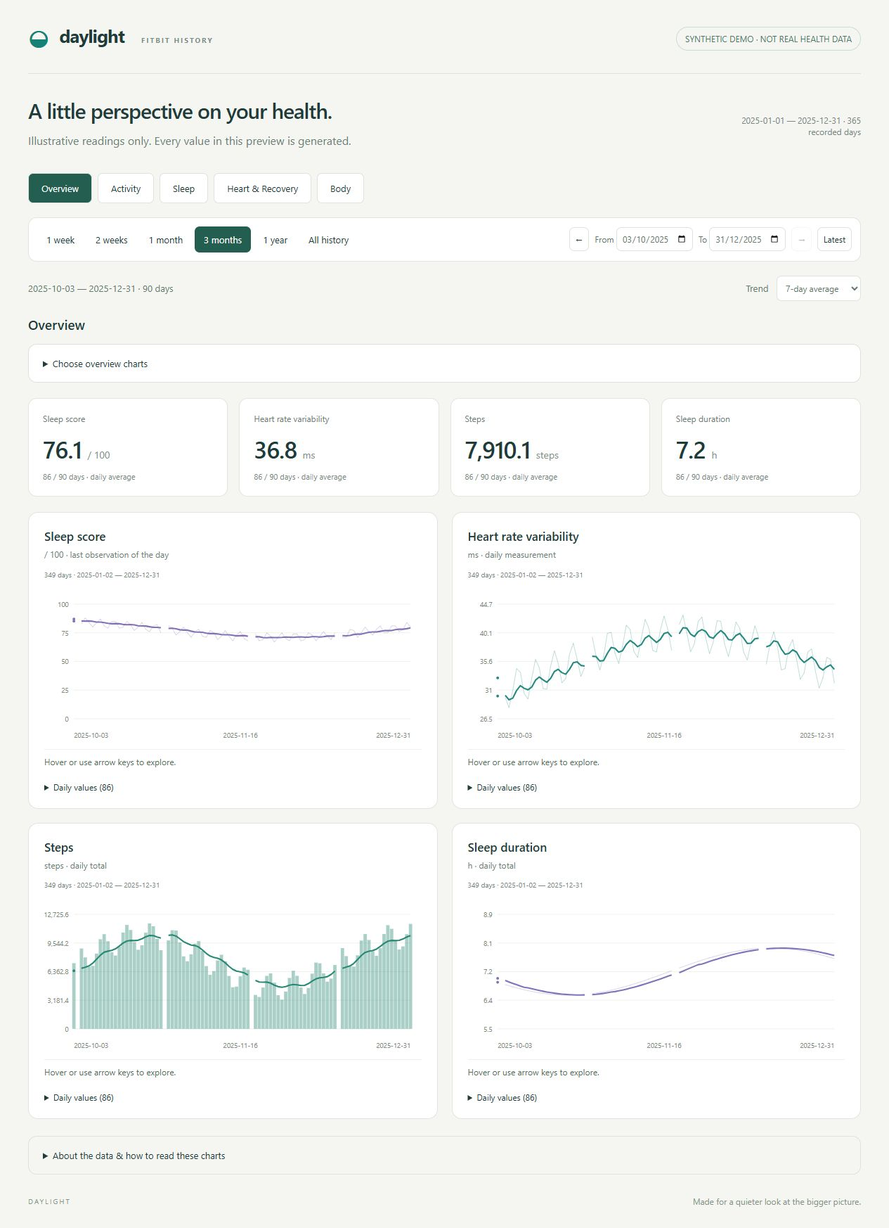
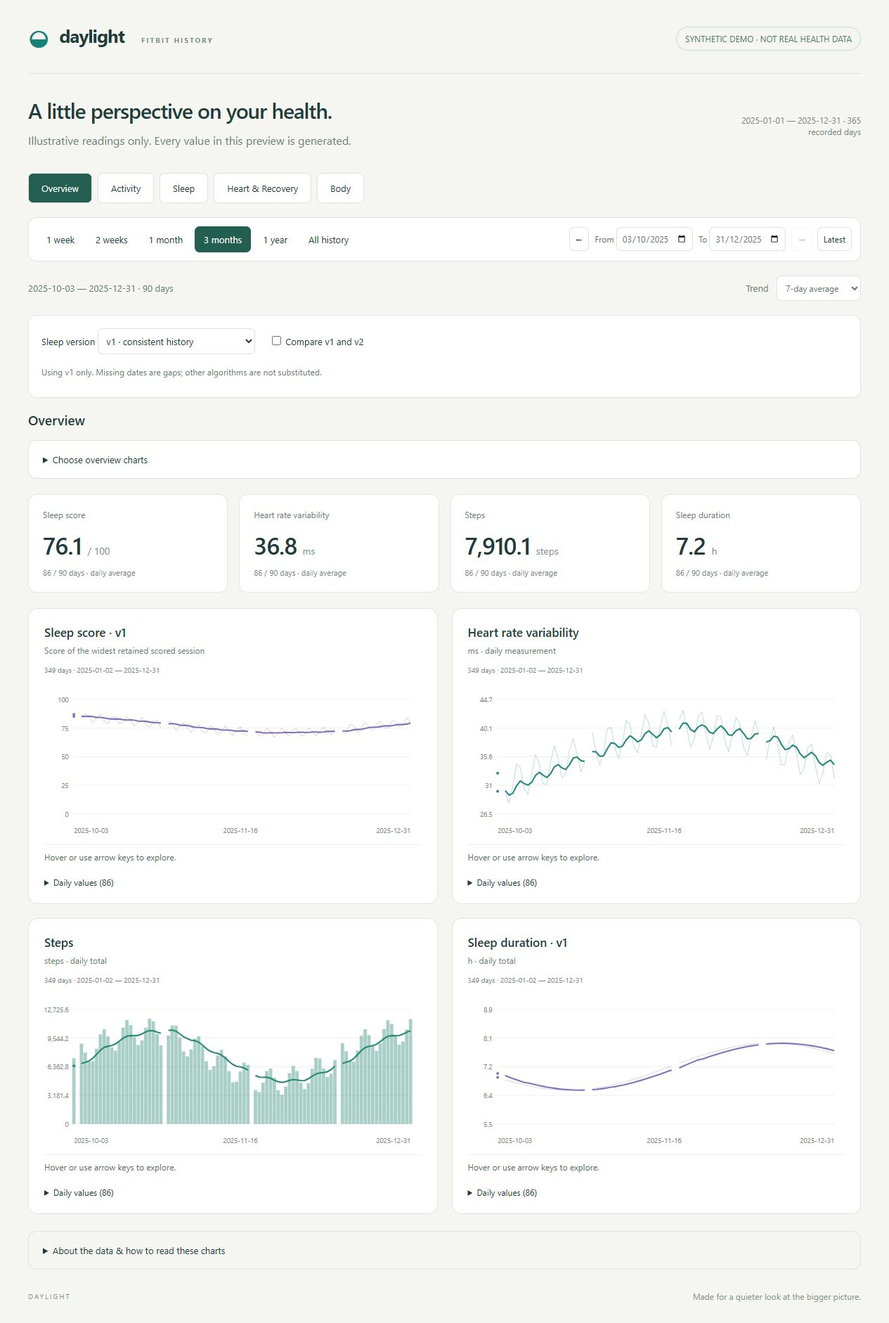
Fix duplicate sleep totals and add algorithm version controls
Keep v1, v2, and hybrid sleep estimates separate, with consistent scores and stages, saved selection, and a comparison view. Flag overlapping workouts without removing records and preserve legacy sleep score links.

Validate with 17 passing tests, including real-export reconciliation, plus JavaScript syntax and whitespace checks. Update documentation and the synthetic preview; exclude all private export data.

diff --git a/dashboard/app.js b/dashboard/app.js
@@ -1,14 +1,15 @@
+import {applySleepVariant,compareSleepVersions,sleepKeys} from './sleep-data.js';
 import {metrics,metricByKey,categories,defaultSelection} from './metrics.js';
 import {normalizeDataset,rowsBetween,trailingMean,DAY,iso,time} from './model.js';
 const $=s=>document.querySelector(s);
 const fmt=v=>v==null?'—':Number(v).toLocaleString(undefined,{maximumFractionDigits:1});
-let data,byDate,start,end,first,last,preset=90,activeTab='Overview',exerciseType='All',selected=new Set(defaultSelection);
+let baseData,sleepVersion='v1',data,byDate,start,end,first,last,preset=90,activeTab='Overview',exerciseType='All',selected=new Set(defaultSelection);
 try{const saved=JSON.parse(localStorage.getItem('daylight.charts.v2'));if(Array.isArray(saved))selected=new Set(saved.filter(k=>metricByKey[k]));}catch{}
 const element=(tag,text,className)=>{const e=document.createElement(tag);if(text!==undefined)e.textContent=text;if(className)e.className=className;return e;};
 function range(n){preset=n;end=last;start=n===0?first:Math.max(first,end-(n-1)*DAY);render();}
 function statusFor(key){const m=data.metrics[key];return m?.days?`${m.days.toLocaleString()} days · ${m.first} — ${m.last}`:data.schemaVersion<2&&!defaultSelection.includes(key)?'Reimport to discover this measurement':'Not in this export';}
 function setupPicker(){
-  const picker=$('#picker-groups');picker.replaceChildren();
+  const picker=$('#picker-groups');picker.replaceChildren();const sourceList=$('#sources');sourceList.replaceChildren();for(const m of metrics){const d=element('details');d.append(element('summary',m.label+' · '+statusFor(m.key)),element('p',(data.metrics[m.key]?.sources||[]).join(', ')||'No source file list in this dataset.'));sourceList.append(d);}
   for(const category of categories){const field=element('fieldset');field.append(element('legend',category));
     for(const m of metrics.filter(m=>m.category===category)){const label=element('label'),input=element('input');input.type='checkbox';input.checked=selected.has(m.key);input.value=m.key;input.addEventListener('change',()=>{if(input.checked)selected.add(m.key);else selected.delete(m.key);try{localStorage.setItem('daylight.charts.v2',JSON.stringify([...selected]));}catch{}render();});const text=element('span');text.append(element('span',m.label),element('small',statusFor(m.key)));label.append(input,text);field.append(label);}picker.append(field);
   }
@@ -17,15 +18,21 @@ function lazyTable(parent,label,headers,rows){
   const details=element('details'),summary=element('summary',label),scroll=element('div',undefined,'table-scroll');details.append(summary,scroll);parent.append(details);
   details.addEventListener('toggle',()=>{if(!details.open||scroll.childNodes.length)return;const table=element('table'),thead=element('thead'),tr=element('tr');headers.forEach(h=>tr.append(element('th',h)));thead.append(tr);table.append(thead);const tbody=element('tbody');for(const row of rows){const tr=element('tr');row.forEach(value=>tr.append(element('td',String(value??'—'))));tbody.append(tr);}table.append(tbody);scroll.append(table);});
 }
+function selectSleepVersion(){
+  data=normalizeDataset(applySleepVariant(baseData,sleepVersion));
+  // Variant coverage must replace the default import's coverage.
+  for(const key of sleepKeys){const a=data.records.filter(r=>r[key]!=null);data.metrics[key]={...data.metrics[key],days:a.length,first:a[0]?.date??null,last:a.at(-1)?.date??null};}
+  byDate=new Map(data.records.map(r=>[r.date,r]));
+}
 function render(){
   $('#from').value=iso(start);$('#to').value=iso(end);$('#status').textContent='';const count=Math.round((end-start)/DAY)+1;
   $('#period').textContent=`${iso(start)} — ${iso(end)} · ${count.toLocaleString()} days`;
   $('#prev').disabled=start<=first;$('#next').disabled=end>=last;
   document.querySelectorAll('#ranges button').forEach(b=>{const on=Number(b.dataset.days)===preset;b.classList.toggle('active',on);b.setAttribute('aria-pressed',on);});
   document.querySelectorAll('#tabs button').forEach(b=>{const on=b.textContent===activeTab;b.classList.toggle('active',on);b.setAttribute('aria-selected',on);b.tabIndex=on?0:-1;});
-  $('#picker').hidden=activeTab!=='Overview';$('#view-title').textContent=activeTab;
+  $('#sleep-controls').hidden=!['Overview','Sleep'].includes(activeTab);$('#sleep-version').disabled=!baseData.sleepVariants;$('#sleep-compare').disabled=!baseData.sleepVariants;$('#sleep-version').value=sleepVersion;$('#sleep-version-note').textContent=!baseData.sleepVariants?'Reimport to choose sleep versions. Existing sleep data is shown unchanged.':sleepVersion==='hybrid'?'Hybrid prefers v2 for overlaps, then v1, then unversioned records. Partial v2 nights are not filled with v1 estimates.':`Using ${sleepVersion} only. Missing dates are gaps; other algorithms are not substituted.`;$('#picker').hidden=activeTab!=='Overview';$('#view-title').textContent=activeTab;
   const rows=rowsBetween(byDate,start,end),visible=metrics.filter(m=>activeTab==='Overview'?selected.has(m.key):m.category===activeTab);
-  $('#cards').replaceChildren();$('#charts').replaceChildren();$('#sessions').replaceChildren();
+  $('#cards').replaceChildren();$('#charts').replaceChildren();$('#sessions').replaceChildren();$('#comparison').replaceChildren();
   if(!visible.length)$('#charts').append(element('p','Choose charts above to build your overview.','empty'));
   for(const m of visible){
     const vals=rows.filter(r=>r[m.key]!=null),avg=vals.length?vals.reduce((s,r)=>s+r[m.key],0)/vals.length:null;
@@ -36,13 +43,13 @@ function render(){
   for(const m of visible.filter(m=>m.group!=='stages'))renderChart([m],rows);
   if(stageMetrics.length)renderChart(stageMetrics,rows,true);
   if(activeTab==='Activity')renderExercises();
-  if(activeTab==='Sleep')renderSleepSessions();
+  if(activeTab==='Sleep')renderSleepSessions();if(['Sleep','Overview'].includes(activeTab)&&$('#sleep-compare').checked)renderSleepComparison();
 }
 function renderChart(ms,rows,stack=false){
-  const m=ms[0],key=m.key,title=stack?'Sleep stages':m.label,unit=m.unit;
+  const m=ms[0],key=m.key,title=(stack?'Sleep stages':m.label)+(sleepKeys.includes(key)&&baseData.sleepVariants?' · '+sleepVersion:''),unit=m.unit;
   const vals=rows.filter(r=>ms.some(m=>r[m.key]!=null));
   const panel=element('article',undefined,'chart');panel.append(element('h2',title));
-  const description=stack?ms.map(m=>m.label).join(' · ')+' · daily minutes; missing stages are not estimated':key==='heart'?'Sample mean, not time-weighted · bpm':key==='tempDelta'?'Nightly skin temperature minus exported baseline · °C':key==='zoneMinutes'?'Intensity-weighted minutes as exported':`${unit} · ${m.aggregation==='sum'?'daily total':m.aggregation==='last'?'last observation of the day':'daily measurement'}`;
+  const description=stack?ms.map(m=>m.label).join(' · ')+' · daily minutes; missing stages are not estimated':key==='sleep'?'Score of the widest retained scored session':key==='heart'?'Sample mean, not time-weighted · bpm':key==='tempDelta'?'Nightly skin temperature minus exported baseline · °C':key==='zoneMinutes'?'Intensity-weighted minutes as exported':`${unit} · ${m.aggregation==='sum'?'daily total':m.aggregation==='last'?'last observation of the day':'daily measurement'}`;
   panel.append(element('p',description));if(stack){const legend=element('div',undefined,'stage-legend');for(const metric of ms){const item=element('span',metric.label);item.className='stage-'+metric.key;legend.append(item);}panel.append(legend);}const cov=element('p',stack?ms.map(m=>`${m.label}: ${statusFor(m.key)}`).join(' / '):statusFor(key),'metric-coverage');panel.append(cov);
   const svg=document.createElementNS('http://www.w3.org/2000/svg','svg');svg.setAttribute('viewBox','0 0 560 230');svg.setAttribute('role','img');svg.setAttribute('tabindex','0');svg.setAttribute('aria-label',`${title} over selected dates. Use arrow keys to inspect daily values.`);panel.append(svg);
   const available=ms.some(m=>data.metrics[m.key]?.days),empty=available?'No observations in this period.':data.schemaVersion<2?'Reimport your export to discover additional measurements.':'Not in this export.';
@@ -75,25 +82,39 @@ function renderExercises(){
   const section=$('#sessions'),heading=element('h2','Exercises'),label=element('label','Activity type '),select=element('select');select.setAttribute('aria-label','Activity type');
   for(const type of ['All',...new Set(data.exercises.map(e=>e.type))].sort((a,b)=>a==='All'?-1:b==='All'?1:a.localeCompare(b))){const o=element('option',type);o.value=type;select.append(o);}select.value=exerciseType;select.addEventListener('change',()=>{exerciseType=select.value;section.replaceChildren();renderExercises();});label.append(select);section.append(heading,label);
   const rows=data.exercises.filter(e=>e.date>=iso(start)&&e.date<=iso(end)&&(exerciseType==='All'||e.type===exerciseType)).reverse();
+  if(rows.some(e=>e.possibleOverlapIds?.length))section.append(element('p','Possible duplicates have the same activity type and overlap more than 80% of the shorter recording. Both records remain available; daily activity charts are imported separately.'));
   section.append(element('p',`${rows.length.toLocaleString()} exercises in this period${!data.exercises.length?' · '+(data.schemaVersion<2?'Reimport to discover exercises':'Not in this export'):''}`));
-  lazyTable(section,'View exercises',['Date / time','Activity','Duration (min)','Distance (km)','Calories (kcal)','Heart rate (bpm)'],rows.map(e=>[e.start.replace('T',' '),e.type,fmt(e.duration),fmt(e.distance),fmt(e.calories),fmt(e.heart)]));
+  lazyTable(section,'View exercises',['Date / time','Activity','Duration (min)','Distance (km)','Calories (kcal)','Heart rate (bpm)','Overlap warning'],rows.map(e=>[e.start.replace('T',' '),e.type,fmt(e.duration),fmt(e.distance),fmt(e.calories),fmt(e.heart),e.possibleOverlapIds?.length?'Possible duplicate · '+e.possibleOverlapIds.length+' overlapping record(s)':'—']));
 }
 function renderSleepSessions(){
-  const section=$('#sessions'),rows=data.sleepSessions.filter(s=>s.date>=iso(start)&&s.date<=iso(end)).reverse();section.append(element('h2','Sleep sessions'),element('p',`${rows.length.toLocaleString()} sessions · assigned to their end date`));
-  lazyTable(section,'View sleep sessions',['Start','End','Asleep (min)','Awake (min)','Deep (min)','Light (min)','REM (min)'],rows.map(s=>[s.start?.replace('T',' '),s.end?.replace('T',' '),fmt(s.minutes),fmt(s.awake),fmt(s.deep),fmt(s.light),fmt(s.rem)]));
+  const section=$('#sessions'),excluded=(data.excludedSleepSessions||[]).filter(s=>s.date>=iso(start)&&s.date<=iso(end)),rows=data.sleepSessions.filter(s=>s.date>=iso(start)&&s.date<=iso(end)).reverse();section.append(element('h2','Sleep sessions'),element('p',`${rows.length.toLocaleString()} sessions · assigned to their end date`));
+  if(excluded.length)section.append(element('p',`${excluded.length} overlapping source records excluded from totals. Only one estimate is retained per overlapping interval, according to the selected version. Separate, non-overlapping naps remain included.`));
+  if(excluded.length)lazyTable(section,'Excluded overlapping records',['Start','End','Asleep (min)','Algorithm','Retained session ID'],excluded.map(s=>[s.start,s.end,fmt(s.minutes),s.algorithm,s.retainedId]));
+  lazyTable(section,'View sleep sessions',['Start','End','Asleep (min)','Awake (min)','Deep (min)','Light (min)','REM (min)','Algorithm','Session ID'],rows.map(s=>[s.start?.replace('T',' '),s.end?.replace('T',' '),fmt(s.minutes),fmt(s.awake),fmt(s.deep),fmt(s.light),fmt(s.rem),s.algorithm,s.id]));
+}
+function renderSleepComparison(){
+  const section=$('#comparison'),pairs=compareSleepVersions(baseData.sleepVariants,iso(start),iso(end)),matched=pairs.filter(p=>p.v1?.sleepHours!=null&&p.v2?.sleepHours!=null);
+  section.append(element('h2','v1 / v2 comparison'),element('p','Separate source estimates; never added together. Daily totals use each version’s own session end dates.'));
+  const diffs=matched.map(p=>(p.v2.sleepHours-p.v1.sleepHours)*60);
+  section.append(element('p',matched.length?matched.length+' matched days · mean v2 − v1 sleep duration: '+fmt(diffs.reduce((a,b)=>a+b,0)/diffs.length)+' min':'No dates with both versions in this period.'));
+  // Paired bars share one duration scale; keyboard details and full table expose exact values.
+  if(pairs.length){const svg=document.createElementNS('http://www.w3.org/2000/svg','svg');svg.setAttribute('viewBox','0 0 1000 220');svg.setAttribute('role','img');svg.setAttribute('tabindex','0');svg.setAttribute('aria-label','Sleep duration comparison. Purple v1 and teal v2. Use arrow keys to inspect.');section.append(element('p','Purple: v1 · Teal: v2 · hours asleep'),svg);const max=Math.max(1,...pairs.flatMap(p=>[p.v1?.sleepHours||0,p.v2?.sleepHours||0]));const add=(name,attrs,text)=>{const e=document.createElementNS(svg.namespaceURI,name);for(const [k,v]of Object.entries(attrs))e.setAttribute(k,v);if(text)e.textContent=text;svg.append(e);return e;};const span=Math.max(1,(end-start)/DAY),x=d=>40+(time(d)-start)/DAY/span*930,w=Math.max(.3,Math.min(12,430/span));for(let i=0;i<=4;i++){const y=185-i/4*160;add('line',{x1:40,x2:975,y1:y,y2:y,stroke:'#e5eae5'});add('text',{x:5,y:y+4,fill:'#637b70','font-size':11},fmt(max*i/4));}pairs.forEach(p=>{for(const [v,color,offset]of [['v1','#8271b5',-w],['v2','#268980',0]])if(p[v]?.sleepHours!=null)add('rect',{x:x(p.date)+offset,y:185-p[v].sleepHours/max*160,width:w,height:p[v].sleepHours/max*160,fill:color});});add('text',{x:40,y:210,fill:'#637b70','font-size':11},iso(start));add('text',{x:975,y:210,fill:'#637b70','font-size':11,'text-anchor':'end'},iso(end));const readout=element('p','Focus the chart and use arrow keys to inspect each date.');readout.setAttribute('aria-live','polite');section.append(readout);let index=0;const show=()=>{const p=pairs[index];readout.textContent=p.date+' · v1 '+fmt(p.v1?.sleepHours)+' h · v2 '+fmt(p.v2?.sleepHours)+' h';};svg.onfocus=show;svg.onpointermove=e=>{const b=svg.getBoundingClientRect(),scale=Math.min(b.width/1000,b.height/220),left=b.left+(b.width-1000*scale)/2,target=start+((e.clientX-left)/scale-40)/930*(end-start);index=pairs.reduce((best,p,i)=>Math.abs(time(p.date)-target)<Math.abs(time(pairs[best].date)-target)?i:best,0);show();};svg.onkeydown=e=>{if(['ArrowLeft','ArrowRight','Home','End'].includes(e.key)){e.preventDefault();index=e.key==='Home'?0:e.key==='End'?pairs.length-1:Math.max(0,Math.min(pairs.length-1,index+(e.key==='ArrowRight'?1:-1)));show();}};}
+  lazyTable(section,'Version comparison values',['Date','v1 sleep (h)','v2 sleep (h)','v2 − v1 (min)','v1 score','v2 score','v1 deep (min)','v2 deep (min)','v1 light (min)','v2 light (min)','v1 REM (min)','v2 REM (min)'],pairs.map(p=>[p.date,fmt(p.v1?.sleepHours),fmt(p.v2?.sleepHours),p.v1?.sleepHours!=null&&p.v2?.sleepHours!=null?fmt((p.v2.sleepHours-p.v1.sleepHours)*60):'—',...['sleep','deep','light','rem'].flatMap(k=>[fmt(p.v1?.[k]),fmt(p.v2?.[k])])]));
 }
 for(const name of ['Overview',...categories]){const b=element('button',name);b.setAttribute('role','tab');b.setAttribute('aria-controls','view');b.onclick=()=>{activeTab=name;render();};b.onkeydown=e=>{if(!['ArrowRight','ArrowLeft','Home','End'].includes(e.key))return;e.preventDefault();const buttons=[...$('#tabs').children],i=buttons.indexOf(b),next=e.key==='Home'?0:e.key==='End'?buttons.length-1:(i+(e.key==='ArrowRight'?1:-1)+buttons.length)%buttons.length;buttons[next].click();buttons[next].focus();};$('#tabs').append(b);}
 for(const [n,label]of [[7,'1 week'],[14,'2 weeks'],[30,'1 month'],[90,'3 months'],[365,'1 year'],[0,'All history']]){const b=element('button',label);b.dataset.days=n;b.onclick=()=>range(n);$('#ranges').append(b);}
 $('#smooth').onchange=render;
+$('#sleep-version').onchange=()=>{sleepVersion=$('#sleep-version').value;try{localStorage.setItem('daylight.sleepVersion',sleepVersion);}catch{}selectSleepVersion();setupPicker();render();};
+$('#sleep-compare').onchange=render;
 for(const id of ['from','to'])$('#'+id).onchange=()=>{const a=time($('#from').value),b=time($('#to').value);if(!Number.isFinite(a)||!Number.isFinite(b)||a>b||a<first||b>last){$('#status').textContent='Choose dates within your imported history, with From on or before To.';return;}start=a;end=b;preset=-1;render();};
 for(const [id,dir]of [['prev',-1],['next',1]])$('#'+id).onclick=()=>{const width=end-start,shift=width+DAY;start+=dir*shift;end+=dir*shift;if(start<first){start=first;end=Math.min(last,start+width);}if(end>last){end=last;start=Math.max(first,end-width);}preset=-1;render();};
 $('#latest').onclick=()=>range(preset>0?preset:90);
 try{
-  const res=await fetch('/data.json');if(!res.ok)throw Error('Import your export first with node dashboard/import.mjs "path/to/Takeout".');data=normalizeDataset(await res.json());byDate=new Map(data.records.map(r=>[r.date,r]));first=time(data.records[0].date);last=time(data.records.at(-1).date);
+  const res=await fetch('/data.json');if(!res.ok)throw Error('Import your export first with node dashboard/import.mjs "path/to/Takeout".');baseData=normalizeDataset(await res.json());sleepVersion=baseData.defaultSleepVersion||'v1';try{const saved=localStorage.getItem('daylight.sleepVersion');if(baseData.sleepVariants?.[saved])sleepVersion=saved;}catch{}data=baseData;if(baseData.sleepVariants)selectSleepVersion();byDate=new Map(data.records.map(r=>[r.date,r]));first=time(data.records[0].date);last=time(data.records.at(-1).date);
   $('#extent').textContent=`${iso(first)} — ${iso(last)} · ${data.records.length.toLocaleString()} recorded days`;
   for(const id of ['from','to']){$('#'+id).min=iso(first);$('#'+id).max=iso(last);}
   const s=data.summary;$('#provenance').textContent=`Imported ${new Date(data.generated).toLocaleString()} · ${(data.samples||0).toLocaleString()} heart-rate samples. ${s?`${s.parsed} parsed files, ${s.empty} empty, ${s.unsupported} unsupported (not imported), ${s.failed} failed. ${s.duplicateObservations.toLocaleString()} duplicate observations skipped.`:'Legacy dataset: reimport to discover additional measurements.'} ${data.warnings.join('; ')}`;
-  const sourceList=$('#sources');for(const m of metrics){const d=element('details');d.append(element('summary',m.label+' · '+statusFor(m.key)),element('p',(data.metrics[m.key]?.sources||[]).join(', ')||'No source file list in this dataset.'));sourceList.append(d);}
+
   setupPicker();range(90);
 }catch(e){$('#status').textContent=e.message;document.querySelectorAll('button,input,select').forEach(e=>e.disabled=true);}
 

diff --git a/dashboard/style.css b/dashboard/style.css
@@ -1,3 +1,4 @@
 :root{font-family:Segoe UI,system-ui,sans-serif;color:#203b39;background:#f5f6f2;font-synthesis:none}*{box-sizing:border-box}body{margin:0}main{max-width:1320px;padding:30px 40px;margin:auto}header,.intro,.controls,.dates,.viewbar,footer{display:flex;justify-content:space-between;align-items:center;gap:16px}header{border-bottom:1px solid #dce3dc;padding-bottom:25px}.brand{font-size:26px;font-weight:650;letter-spacing:-1px}.mark{color:#168276;font-size:35px;vertical-align:middle;margin-right:9px}.tag{font-size:10px;letter-spacing:2px;margin-left:18px;color:#788c85}.private{font-size:12px;color:#477568;border:1px solid #cbdcd3;border-radius:30px;padding:8px 12px}.intro{margin:32px 0 25px}h1{font-size:30px;font-weight:550;letter-spacing:-1px;margin:0 0 10px}p{color:#6b7d75;line-height:1.6;margin:8px 0}.muted{font-size:12px;color:#75867d;text-align:right;max-width:220px}.controls{flex-wrap:wrap;background:#fff;padding:12px;border:1px solid #dfe5df;border-radius:12px}nav{display:flex;gap:4px}button,select,input{font:inherit;color:inherit;border:1px solid #dce4dd;background:white;border-radius:7px;padding:8px;cursor:pointer}nav button{border:0;font-size:13px;padding:10px 13px}button:hover{background:#edf4ef}button.active{background:#235e51;color:white}button:disabled{opacity:.35;cursor:default}.dates{gap:8px;font-size:12px}.dates label{color:#64766c}input{font-size:12px;padding:7px}.viewbar{margin:20px 0;font-size:13px;color:#62796d}.viewbar select{font-size:12px;margin-left:8px}.cards{display:grid;grid-template-columns:repeat(4,1fr);gap:16px;margin-bottom:22px}.card{background:white;border:1px solid #e0e7df;border-radius:12px;padding:20px}.eyebrow{font-size:12px;color:#6c8175}.value{font-size:34px;font-weight:550;letter-spacing:-1px;margin:12px 0 9px}.unit{font-size:14px;font-weight:400;color:#819086;letter-spacing:0}.coverage{font-size:11px;color:#75897c}.charts{display:grid;grid-template-columns:1fr 1fr;gap:20px}.chart{background:white;border:1px solid #dfe6df;border-radius:14px;padding:22px;min-width:0}.chart h2{font-size:17px;margin:0;font-weight:600}.chart p{font-size:12px;margin:6px 0 10px}.chart svg{width:100%;height:230px;display:block;touch-action:pan-y}.readout{font-size:12px;min-height:38px;color:#536e60;padding:9px 0;border-top:1px solid #edf0eb}.chart details{margin:8px 0 0;padding:0;border:0;font-size:12px}.table-scroll{max-height:230px;overflow:auto}table{width:100%;border-collapse:collapse;font-size:12px}td,th{text-align:left;padding:7px;border-bottom:1px solid #eee}details{padding:18px 20px;border:1px solid #dce4da;border-radius:12px;margin-top:24px;font-size:13px}summary{cursor:pointer}footer{margin-top:30px;font-size:10px;letter-spacing:2px;color:#849487}footer span{letter-spacing:0;font-size:12px}#status:empty{display:none}#status{font-size:13px}button:focus-visible,input:focus-visible,select:focus-visible,svg:focus-visible{outline:3px solid #d79d46;outline-offset:3px}@media(max-width:850px){main{padding:20px}.cards{grid-template-columns:1fr 1fr}.charts{grid-template-columns:1fr}.intro{align-items:flex-start}.dates{flex-wrap:wrap}.tag{display:none}h1{font-size:26px}}@media(max-width:480px){.intro{display:block}.muted{text-align:left;margin-top:14px}.private{font-size:10px}nav{flex-wrap:wrap}.card{padding:14px}.value{font-size:28px}footer span{display:none}}
 #tabs{margin:0 0 20px;gap:8px;flex-wrap:wrap}#tabs button{padding:12px 18px;border:1px solid #dce4dd;background:#fff}#tabs button.active{background:#235e51;color:white}#view-title{font-size:19px;font-weight:600}#picker{margin:0 0 22px;background:#fff}#picker-groups{display:grid;grid-template-columns:repeat(4,1fr);gap:16px;margin-top:18px}fieldset{border:0;margin:0;padding:0;min-width:0}legend{font-weight:600;font-size:13px;margin-bottom:10px}fieldset label{display:flex;align-items:flex-start;gap:9px;margin:10px 0;font-size:12px;cursor:pointer}fieldset input{margin-top:3px;accent-color:#235e51}fieldset small{display:block;color:#778a7f;font-size:10px;line-height:1.5;margin-top:3px}.metric-coverage{font-size:10px!important;color:#788a7f}#sessions:empty{display:none}#sessions{background:white;border:1px solid #dfe6df;border-radius:14px;padding:22px;margin-top:22px}#sessions h2{font-size:18px;margin-top:0}#sessions label{font-size:13px}#sources details{margin:10px 0;padding:12px}#sources p{overflow-wrap:anywhere}.empty{padding:24px}[hidden]{display:none!important}.cards{grid-template-columns:repeat(auto-fit,minmax(190px,1fr))}.readout{overflow-wrap:anywhere}@media(max-width:1000px){#picker-groups{grid-template-columns:1fr 1fr}}@media(max-width:480px){#picker-groups{grid-template-columns:1fr}.cards{grid-template-columns:1fr 1fr}#tabs{gap:5px}#tabs button{padding:9px 10px;font-size:12px}.viewbar{align-items:flex-start;flex-wrap:wrap}.controls nav{flex-wrap:wrap}}
 .stage-legend{display:flex;flex-wrap:wrap;gap:14px;font-size:11px;margin:8px 0}.stage-legend span:before{content:'';display:inline-block;width:9px;height:9px;border-radius:2px;margin-right:5px}.stage-deep:before{background:#625292}.stage-light:before{background:#a294d1}.stage-rem:before{background:#71b8b4}
+.sleep-controls,#comparison:not(:empty){background:white;border:1px solid #dfe6df;border-radius:12px;padding:18px;margin:18px 0}.sleep-controls label{display:inline-block;margin:0 20px 8px 0;font-size:13px}.sleep-controls p{font-size:12px}.sleep-controls select{max-width:100%}#comparison svg{width:100%;height:auto;min-height:180px}#comparison h2{font-size:18px}

diff --git a/dashboard/index.html b/dashboard/index.html
@@ -6,14 +6,15 @@
 <nav id="tabs" role="tablist" aria-label="Health categories"></nav>
 <section class="controls" aria-label="Date range"><nav id="ranges" aria-label="Preset ranges"></nav><div class="dates"><button id="prev" aria-label="Previous period">←</button><label>From <input id="from" type="date"></label><label>To <input id="to" type="date"></label><button id="next" aria-label="Next period">→</button><button id="latest">Latest</button></div></section>
 <div class="viewbar"><span id="period"></span><label>Trend <select id="smooth"><option value="7">7-day average</option><option value="30">30-day average</option><option value="1">Daily values</option></select></label></div>
+<section id="sleep-controls" class="sleep-controls" hidden><label>Sleep version <select id="sleep-version"><option value="v1">v1 · consistent history</option><option value="v2">v2 · newer algorithm only</option><option value="hybrid">Hybrid · v2 preferred, v1 fallback</option><option value="unversioned">Unversioned / legacy only</option></select></label><label><input id="sleep-compare" type="checkbox"> Compare v1 and v2</label><p id="sleep-version-note"></p></section>
 <p id="status" role="status">Loading your local history…</p>
 <section id="view" role="tabpanel" aria-labelledby="view-title"><h2 id="view-title">Overview</h2>
 <details id="picker"><summary>Choose overview charts</summary><p>Your selection is saved in this browser. All supported measurements stay available in the category tabs.</p><div id="picker-groups"></div></details>
-<section id="cards" class="cards" aria-label="Period summaries"></section><section id="charts" class="charts" aria-label="Measurement charts"></section><section id="sessions"></section></section>
+<section id="cards" class="cards" aria-label="Period summaries"></section><section id="charts" class="charts" aria-label="Measurement charts"></section><section id="comparison"></section><section id="sessions"></section></section>
 <details><summary>About the data & how to read these charts</summary>
 <p>Faint lines or bars show daily observations. Stronger lines show the selected trailing calendar-day average using available readings only, including days before the visible range. Missing days remain gaps. Sleep-stage bars show the available stages without smoothing; absent stages are not estimated. Daily average cards weight available days equally.</p>
 <p>Heart rate is the mean of recorded samples, not a time-weighted average. Resting heart rate uses the dedicated source. HRV is RMSSD. Active zone minutes are intensity-weighted as exported. Total and active calories are separate measurements. Skin temperature is not core body temperature; its baseline deviation may be negative.</p>
-<p>Dates retain the calendar date in the source timestamp, without timezone conversion. Sleep duration and stages sum distinct sessions ending on each date; scores remain one value per date. Newer Google sources take precedence over legacy copies for each metric/day. Newer session days replace legacy session days to avoid double counting migrated IDs.</p>
+<p>Dates retain the calendar date in the source timestamp, without timezone conversion. Sleep duration and stages sum non-overlapping sessions ending on each date. Sleep uses the selected algorithm only. Hybrid prefers v2, then v1, then unversioned estimates for overlaps. Within a version, competing records keep the widest interval (latest update breaks ties); scores use the widest retained scored session. The export does not explain the internal algorithm differences. Newer Google sources take precedence over legacy copies for each metric/day. Newer session days replace legacy session days to avoid double counting migrated IDs.</p>
 <p>Hover or focus a chart and use arrow keys to inspect readings. Expand its daily table for exact values. Missing values and source-specific invalid readings are excluded; valid activity zeros are preserved. This is a personal history viewer, not a medical assessment.</p>
 <p id="provenance"></p><details><summary>Measurement coverage & source files</summary><div id="sources"></div></details>
 <p>See README.md for import instructions and source limitations. Original export files are never modified.</p></details>

diff --git a/dashboard/sleep-data.js b/dashboard/sleep-data.js
@@ -1,0 +1,35 @@
+// Sleep versions are independent estimates. Never combine versions in daily totals.
+export const sleepKeys=['sleep','sleepRest','sleepHours','awakeMinutes','deep','light','rem'];
+export function resolveSleepOverlaps(input,preferVersion=false) {
+  const duration=s=>Date.parse(s.end+'Z')-Date.parse(s.start+'Z');
+  const rank=s=>s.algorithm==='sleep_session_v2'?2:s.algorithm==='sleep_session_v1'?1:0;
+  const ranked=[...input].sort((a,b)=>(preferVersion?rank(b)-rank(a):0)||duration(b)-duration(a)||String(b.updated||'').localeCompare(String(a.updated||''))||a.id.localeCompare(b.id));
+  const kept=[],excluded=[];
+  for(const session of ranked){const conflict=kept.find(other=>session.start<other.end&&session.end>other.start);if(conflict)excluded.push({...session,retainedId:conflict.id,reason:preferVersion?'Overlaps a preferred version (v2, then v1, then unversioned)':'Overlaps a wider or equally wide retained interval in this version'});else kept.push(session);}
+  return {kept:kept.sort((a,b)=>a.start.localeCompare(b.start)),excluded};
+}
+export function buildSleepVariants(sessions) {
+  return Object.fromEntries(['v1','v2','hybrid','unversioned'].map(version=>{
+    const candidates=version==='hybrid'?sessions:sessions.filter(s=>(s.algorithm==='sleep_session_v1'?'v1':s.algorithm==='sleep_session_v2'?'v2':'unversioned')===version);
+    const {kept,excluded}=resolveSleepOverlaps(candidates,version==='hybrid'),days=new Map();
+    for(const s of kept){if(!days.has(s.date))days.set(s.date,{date:s.date});const d=days.get(s.date);for(const [key,value]of [['sleepHours',s.minutes==null?null:s.minutes/60],['awakeMinutes',s.awake],['deep',s.deep],['light',s.light],['rem',s.rem]])if(value!=null)d[key]=(d[key]||0)+value;}
+    const scored=new Set();for(const s of [...kept].sort((a,b)=>(Date.parse(b.end)-Date.parse(b.start))-(Date.parse(a.end)-Date.parse(a.start))))if(s.score!=null&&!scored.has(s.date)){const d=days.get(s.date);d.sleep=s.score;if(s.sleepRest!=null)d.sleepRest=s.sleepRest;scored.add(s.date);}
+    return [version,{records:[...days.values()].sort((a,b)=>a.date.localeCompare(b.date)),sessions:kept,excluded}];
+  }));
+}
+export function applySleepVariant(data,version){
+  const variant=data.sleepVariants?.[version];if(!variant)return data;
+  const byDate=new Map(variant.records.map(r=>[r.date,r]));
+  const originals=new Map(data.records.map(r=>[r.date,r]));
+  const records=[...new Set([...originals.keys(),...byDate.keys()])].sort().map(date=>{const r=originals.get(date)||{date};const clean={...r};for(const key of sleepKeys)delete clean[key];return {...clean,...byDate.get(r.date)};});
+  return {...data,records,sleepSessions:variant.sessions,excludedSleepSessions:variant.excluded,selectedSleepVersion:version};
+}
+export function compareSleepVersions(variants,start,end){
+  const a=new Map((variants?.v1?.records||[]).map(r=>[r.date,r])),b=new Map((variants?.v2?.records||[]).map(r=>[r.date,r]));
+  return [...new Set([...a.keys(),...b.keys()])].filter(d=>d>=start&&d<=end).sort().map(date=>({date,v1:a.get(date),v2:b.get(date)}));
+}
+export function flagExerciseOverlaps(exercises){
+  const sorted=exercises.map(e=>({...e,possibleOverlapIds:[]})).sort((a,b)=>a.start.localeCompare(b.start));
+  for(let i=0;i<sorted.length;i++){const a=sorted[i];if(!(a.duration>0))continue;const at=Date.parse(a.start+'Z'),end=at+a.duration*60000;for(let j=i+1;j<sorted.length;j++){const b=sorted[j],bt=Date.parse(b.start+'Z');if(bt>=end)break;if(b.type!==a.type||!(b.duration>0))continue;const overlap=Math.min(end,bt+b.duration*60000)-bt;if(overlap/60000>Math.min(a.duration,b.duration)*.8){a.possibleOverlapIds.push(b.id);b.possibleOverlapIds.push(a.id);}}}
+  return sorted;
+}

diff --git a/README.md b/README.md
@@ -121,13 +121,25 @@ An import with no supported observations preserves the previous dataset. If some
 
 Formats vary between exports. Unsupported filenames or schemas are not automatically converted. Missing metrics are shown as unavailable rather than estimated.
 
+### Sleep version selection
+
+Choose **v1**, **v2**, or **Hybrid** above the Overview or Sleep tab. The choice is saved in this browser. v1 is the default when available because it provides a consistent long-term series in the supplied export; v2 is selected by default only for exports without v1. Unversioned/legacy records can also be viewed separately.
+
+- **v1 / v2:** only that version contributes to sleep duration, awake time, stages, and scores. Missing dates remain gaps.
+- **Hybrid:** prefers v2, then v1, then unversioned records for overlapping sleep episodes. Non-overlapping naps remain included. A partial v2 record can replace a longer v1 night; the importer does not splice estimates together to fill it.
+- **Compare v1 and v2:** shows separate duration bars, a mean duration difference for matched days only, and a table of duration, score and stage differences. The comparison always uses the same selected date range, regardless of the primary version choice.
+
+Within one version, overlapping records retain the widest interval, with latest update breaking ties. The source documentation does not define the algorithms’ internal changes: v2 is not assumed to be medically more accurate. Changing methods can change a trend even when underlying sleep has not changed.
+
+Possible duplicate workouts are flagged when the same activity type overlaps more than 80% of the shorter record. Both remain in the exercise table; this does not alter separately imported daily activity totals. Readiness component fields are not interpreted; some exported fields are constant or unspecified.
+
 ### How values are interpreted
 
 - **Missing readings:** missing, non-finite, and source-specific invalid readings are excluded, including legacy zero placeholders for resting heart rate and failed stress calculations. Valid activity zeros and negative temperature deviations are preserved. Gaps are not interpolated.
 - **Heart rate:** daily averages weight recorded samples equally, not time equally. Sampling density affects the result. Period summaries then weight available daily averages equally.
 - **Resting heart rate:** only the dedicated daily source is charted. The resting-rate field attached to sleep scores is retained separately as `sleepRest` in generated data, but is not substituted into the chart.
-- **Sleep scores:** newer Google `UserSleepScores` records take precedence over legacy records on the same date. Within a date, the latest update/timestamp wins in the preferred source. The dashboard shows one score per date, not individual sleep sessions.
-- **Sleep sessions:** durations and stage minutes sum distinct sessions ending on the same date, including naps. Stage information is joined by sleep ID. Missing stage types are left absent, not set to zero.
+- **Sleep scores:** newer Google `UserSleepScores` records take precedence over legacy records on the same date. When sessions are available, the score follows the widest retained scored session of the selected version. Score-only exports retain the latest update/timestamp in the preferred source. The dashboard shows one score per date.
+- **Sleep sessions:** durations and stage minutes sum non-overlapping sessions ending on the same date, including naps. Some exports contain both v1 and v2 estimates of the same night with different IDs. Within the selected version, overlapping records retain the widest recorded time interval, then the latest update for equal durations. Hybrid first prioritizes the algorithm version. This is an explicit coverage heuristic, not a claim that one algorithm is medically more accurate. Excluded records can be inspected in the Sleep tab. Scores use the widest retained scored session when available. Stage information is joined by sleep ID. Missing stage types are left absent, not set to zero.
 - **Activity:** total calories and active calories are separate measures, not additive. Active zone minutes retain the exported intensity weighting. A reported zero is not treated as a missing day. Calories can exist on days without recorded steps.
 - **Body:** weight uses the final recorded value per day. Skin temperature is not core body temperature; deviation is calculated only when both the nightly temperature and exported baseline exist. No baseline is invented.
 - **Legacy formats:** legacy distance and weight streams are not imported because units are not explicit in those records. Legacy exercise distance is used only when a supported explicit distance unit is present. ECG, glucose, menstrual records, account/security, commerce and social records are outside this version’s scope.
@@ -146,7 +158,7 @@ Original export files are read only. There is no telemetry, CDN dependency, exte
 
 ### Dataset compatibility
 
-Existing four-metric `data.json` files remain readable. Reimport to generate schema version 2 with additional measurements, session summaries, and per-metric coverage/source filenames. The dashboard does not require an automatic migration. Selecting charts changes only browser preferences, not the imported dataset.
+Existing four-metric `data.json` files remain readable. Reimport to generate schema version 3 with additional measurements, session summaries, per-metric coverage/source filenames, and independent sleep-version datasets. The dashboard does not require an automatic migration. Selecting charts changes only browser preferences, not the imported dataset.
 
 ## Troubleshooting
 
